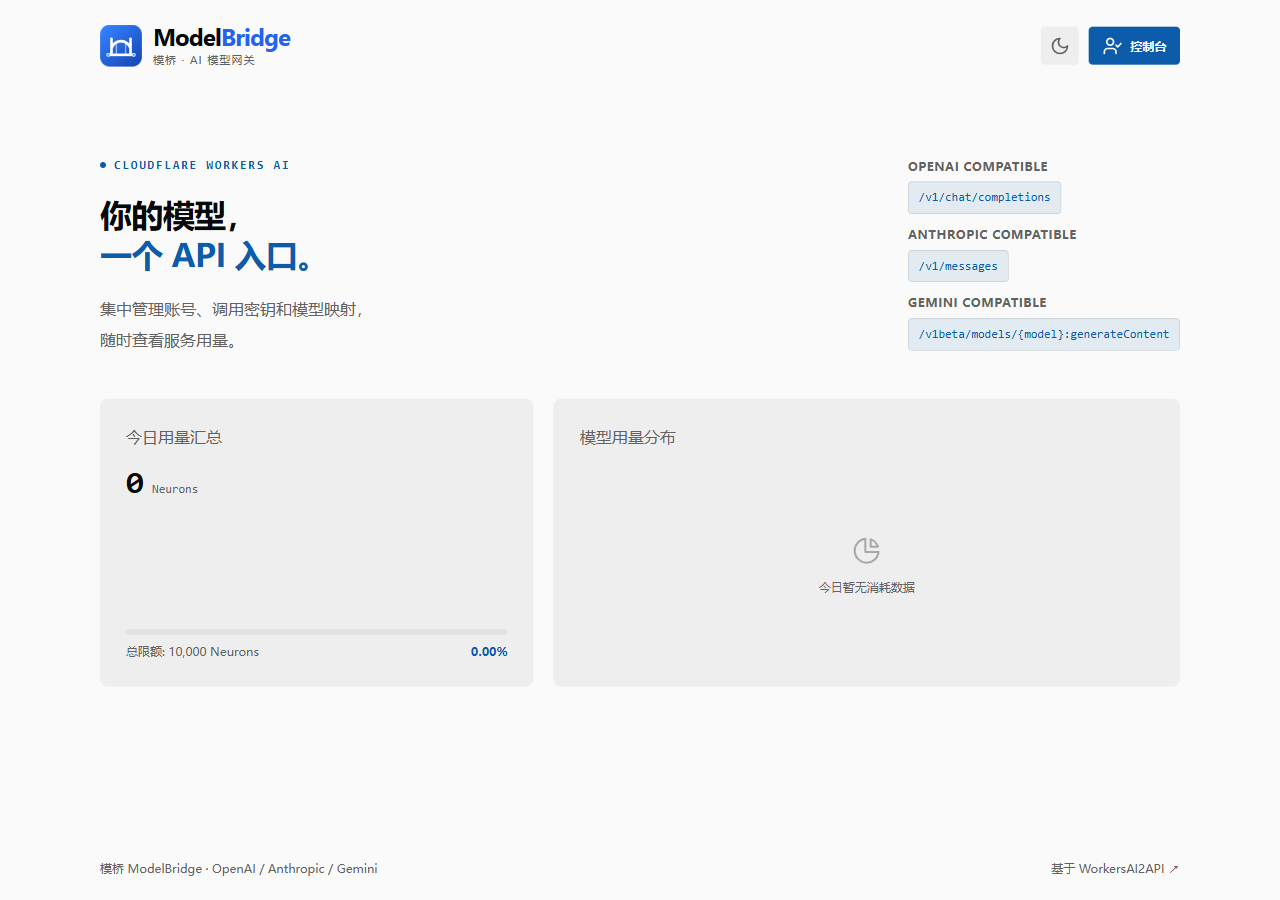
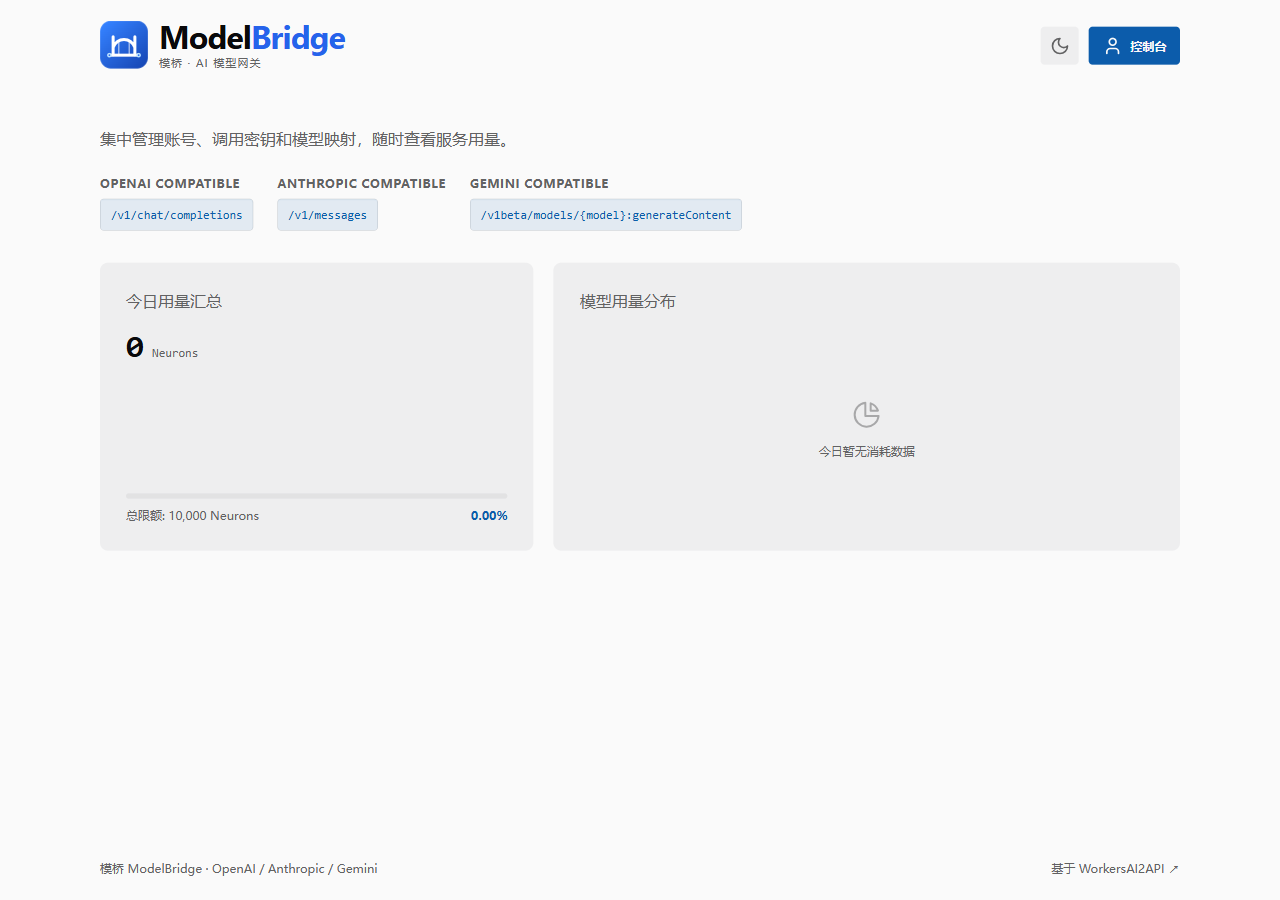
fix(ui): 用品牌统一首页与 README 标题
首页将页首品牌作为唯一一级标题，移除宣传标题，收紧简介与协议入口布局；浏览器页签直接使用品牌名。双语 README 合并文字标题与带字 Logo，并更新本地演示截图。

验证：node --check _worker.js；node --test tests/*.test.mjs，286/286 通过。浏览器检查 1280、390、320 像素宽度的深浅主题，标题唯一且没有横向溢出。repo-docs 校验零错误零警告，文档站仓库外构建通过。
文档：同步代码地图的品牌职责与指南变更记录。未发起真实模型生成。

diff --git a/_worker.js b/_worker.js
@@ -4343,7 +4343,7 @@ async function handleLandingPage(request, env, ctx) {
 	<meta charset="UTF-8">
 	<meta name="robots" content="noindex, nofollow">
 	<meta name="viewport" content="width=device-width, initial-scale=1.0">
-	<title>${PROJECT_DISPLAY_NAME} · API Gateway</title>
+	<title>${PROJECT_DISPLAY_NAME}</title>
 	<link rel="icon" href="${PROJECT_ICON_DATA_URI}">
 	<script>${gatewayChartRuntime.toString()}; gatewayChartRuntime();</script>
 	<style>
@@ -4434,14 +4434,15 @@ async function handleLandingPage(request, env, ctx) {
 		.floating-btn:hover { color: var(--text-main); background: var(--btn-secondary-hover); border-color: var(--input-border); }
 		.floating-btn.primary-action { background: var(--primary-bg); color: var(--primary-text); border-color: transparent; width: auto; padding: 0 13px; gap: 8px; }
 		.action-label { font-size: 12px; font-weight: 600; }
-		.dashboard-container { max-width: 1080px; width: 100%; display: flex; flex-direction: column; gap: 24px; flex: 1; padding: 64px 0 48px; }
-		.hero { display: flex; justify-content: space-between; align-items: flex-end; gap: 40px; padding: 0 0 20px; }
+		.project-title { margin: 0; line-height: 1; }
+		.project-title .project-brand-wordmark { font-size: 32px; }
+		.project-title .project-brand-icon { width: 48px; height: 48px; }
+		.dashboard-container { max-width: 1080px; width: 100%; display: flex; flex-direction: column; gap: 24px; flex: 1; padding: 32px 0 48px; }
+		.hero { display: flex; flex-direction: column; align-items: flex-start; gap: 20px; padding: 0 0 4px; }
 		.eyebrow { display: flex; align-items: center; gap: 8px; color: var(--accent-color); font: 600 11px/1.5 Consolas, monospace; letter-spacing: 1.8px; margin-bottom: 20px; }
 		.eyebrow::before { content: ''; width: 6px; height: 6px; border-radius: 50%; background: currentColor; }
-		.hero h1 { font-size: clamp(30px, 4vw, 48px); font-weight: 650; letter-spacing: -1.7px; line-height: 1.25; }
-		.hero h1 span { color: var(--accent-color); }
-		.hero-description { color: var(--text-muted); font-size: 14px; line-height: 1.9; margin-top: 20px; max-width: 460px; }
-		.endpoint-list { display: flex; flex-direction: column; gap: 12px; padding-bottom: 4px; flex-shrink: 0; }
+		.hero-description { color: var(--text-muted); font-size: 14px; line-height: 1.9; margin: 0; }
+		.endpoint-list { display: flex; flex-wrap: wrap; gap: 24px; padding-bottom: 4px; }
 		.endpoint-label { font-size: 12px; font-weight: 600; letter-spacing: .6px; color: var(--text-muted); margin-bottom: 6px; }
 		.endpoint-list code { display: inline-block; font: 12px/1.6 Consolas, monospace; background: var(--accent-soft); border: 1px solid var(--border-color); border-radius: 4px; padding: 6px 10px; color: var(--accent-color); box-shadow: inset 0 1px 0 rgba(12,92,171,.04); }
 		.dashboard-grid { display: grid; grid-template-columns: .9fr 1.3fr; gap: 20px; width: 100%; }
@@ -4491,11 +4492,9 @@ async function handleLandingPage(request, env, ctx) {
 		@media (max-width: 768px) {
 			body { padding: 0 22px; }
 			.site-header { min-height: 78px; }
-			.dashboard-container { padding: 40px 0 32px; gap: 20px; }
+			.dashboard-container { padding: 24px 0 32px; gap: 20px; }
 			.hero { flex-direction: column; align-items: flex-start; gap: 24px; padding-bottom: 4px; }
-			.hero h1 { font-size: 32px; letter-spacing: -1.2px; }
 			.eyebrow { margin-bottom: 16px; }
-			.hero-description { margin-top: 16px; }
 			.endpoint-list { flex-direction: row; flex-wrap: wrap; gap: 14px; }
 			.endpoint-list code { font-size: 12px; }
 			.dashboard-grid { grid-template-columns: 1fr; gap: 16px; }
@@ -4512,8 +4511,8 @@ async function handleLandingPage(request, env, ctx) {
 			.action-btn-group { gap: 7px; }
 			.action-label { display: none; }
 			.floating-btn.primary-action { width: 38px; padding: 0; }
-			.dashboard-container { padding-top: 34px; }
-			.hero h1 { font-size: 32px; }
+			.project-title .project-brand-wordmark { font-size: 22px; }
+			.project-title .project-brand-icon { width: 36px; height: 36px; }
 			.hero-description { font-size: 12px; }
 			.public-chart-wrapper { flex-direction: column !important; height: auto !important; gap: 20px !important; padding-top: 4px; }
 			.public-chart-wrapper > div:nth-child(2) { width: 100% !important; height: auto !important; }
@@ -4567,7 +4566,7 @@ async function handleLandingPage(request, env, ctx) {
 <body>
 
 	<header class="site-header">
-		${projectBrandMarkup()}
+		<h1 class="project-title" aria-label="${PROJECT_DISPLAY_NAME}">${projectBrandMarkup()}</h1>
 	<div class="action-btn-group">
 		<button class="floating-btn" onclick="toggleTheme()" title="切换日间/夜间模式">
 			<svg class="theme-icon-sun" xmlns="http://www.w3.org/2000/svg" fill="none" viewBox="0 0 24 24" stroke="currentColor" stroke-width="2" stroke-linecap="round" stroke-linejoin="round" style="display:none; width: 20px; height: 20px;">
@@ -4600,11 +4599,7 @@ async function handleLandingPage(request, env, ctx) {
 
 	<main class="dashboard-container">
 		<section class="hero">
-			<div>
-				<div class="eyebrow">CLOUDFLARE WORKERS AI</div>
-				<h1>你的模型，<br><span>一个 API 入口。</span></h1>
-				<p class="hero-description">集中管理账号、调用密钥和模型映射，<br>随时查看服务用量。</p>
-			</div>
+			<p class="hero-description">集中管理账号、调用密钥和模型映射，随时查看服务用量。</p>
 			<div class="endpoint-list">
 				<div><div class="endpoint-label">OPENAI COMPATIBLE</div><code>/v1/chat/completions</code></div>
 				<div><div class="endpoint-label">ANTHROPIC COMPATIBLE</div><code>/v1/messages</code></div>

diff --git a/repo-docs/change-log.md b/repo-docs/change-log.md
@@ -99,3 +99,11 @@ Synced through a7f2b31b72c71031cdc4a72ff4b7e50a9883a397；该锚点与原 12a0f6
 已使用现有登录态部署到 Cybernova2333@qq.com 的 `aigateway`，保留原 KV、CONFIG_STORE 与迁移配置，以 `--keep-vars` 保留线上变量。Cloudflare 版本 `4e74f491-0c15-419d-80ae-5b1fc878b34c`，于 2026-11-01 11:05 Asia/Shanghai 接收 100% 流量，绑定 `aigateway.cbnv.top`。部署内容对应 `555b30f` 的 Worker，后续只有维护工具及文档调整。部署前后公开首页、后台匿名跳转、三类模型/消息鉴权、管理 API 鉴权、robots 和未知路径共 8 项均通过；没有登录后台、读取私有配置或发起真实模型生成，不把公开路由烟测当作完整生产验收。
 
 Synced through 2db31d3；该锚点包含已发布 Worker 与维护护栏，本节和配套许可、文档为随后的发布提交。
+
+## 首页与 README 标题精简（2026-11-01）
+
+按用户确认同时简化两处标题：首页将页首品牌作为唯一一级标题，移除独立宣传标题及其上方标签，简介和三个协议入口收为紧凑布局；浏览器页签直接使用品牌名。双语 README 将带字 Logo 作为唯一一级标题，保留图片替代文字，并更新使用本地合成数据的首页截图。后台各功能页标题保持原有职责，代码地图同步品牌与标题的关系。
+
+本轮实际验证：Worker 语法检查和模拟回归 286/286 通过；浏览器检查 1280、390、320 像素宽度下的深浅两种主题，首页均只有一个可访问名称为“模桥 ModelBridge”的一级标题，品牌与按钮未重叠、页面无横向溢出。文档校验 0 错误、0 警告，文档站在仓库外构建成功。未调用真实模型；发布结果另以最终远端与部署核验为准。
+
+Synced through 01c00e1f103a0ecbb512ed9cbbb570cd18c06a75；该锚点为本轮修改前基线，本节与标题调整在随后同一提交交付。

diff --git a/repo-docs/code-map.md b/repo-docs/code-map.md
@@ -34,6 +34,8 @@
 
 首页、后台侧栏与移动顶栏使用 `projectBrandMarkup` 和 `PROJECT_BRAND_CSS`；内嵌 `PROJECT_ICON_SVG` 通过数据地址用于品牌图片及页签图标。仓库的 [Logo](../assets/modelbridge-logo.svg) 和[方形图标](../assets/modelbridge-icon.svg)是独立素材，修改图形要同时核对内嵌版本。当前 Worker 没有 `/assets/` 静态路由，README 的图片链接不是线上下载地址。
 
+首页将页首品牌作为唯一一级标题，不再另设大标语；后台保留各功能页标题。中英文 README 均将带字 Logo 放在唯一一级标题中，通过图片替代文字保留品牌名称，不再叠加文字标题。
+
 ## `tests/`
 
 在根目录运行 `node --test tests/*.test.mjs`。测试以公共入口或专门提取的转换器约束行为；需要 Node.js 24+、Python 3.10+ 和 Git。

diff --git a/README.md b/README.md
@@ -1,8 +1,6 @@
-# 模桥 ModelBridge
+# ![模桥 ModelBridge](assets/modelbridge-logo.svg)
 
 **简体中文** | [English](README.en.md)
-
-![模桥 ModelBridge](assets/modelbridge-logo.svg)
 
 模桥 ModelBridge 是部署在 Cloudflare Workers 上的多模型、多协议 API 网关。配置上游账号和模型别名后，客户端可以通过 OpenAI、Anthropic 或 Gemini 接口调用受支持的模型，并在蓝色管理面板管理账号、调用密钥和 Cloudflare 用量。
 

diff --git a/README.en.md b/README.en.md
@@ -1,8 +1,6 @@
-# ModelBridge
+# ![ModelBridge](assets/modelbridge-logo.svg)
 
 [简体中文](README.md) | **English**
-
-![ModelBridge](assets/modelbridge-logo.svg)
 
 ModelBridge is a multi-model, multi-protocol API gateway for Cloudflare Workers. Configure upstream accounts and model aliases, then use OpenAI, Anthropic or Gemini client interfaces to call supported models. Its blue management interface handles accounts, gateway keys and Cloudflare usage.
 
